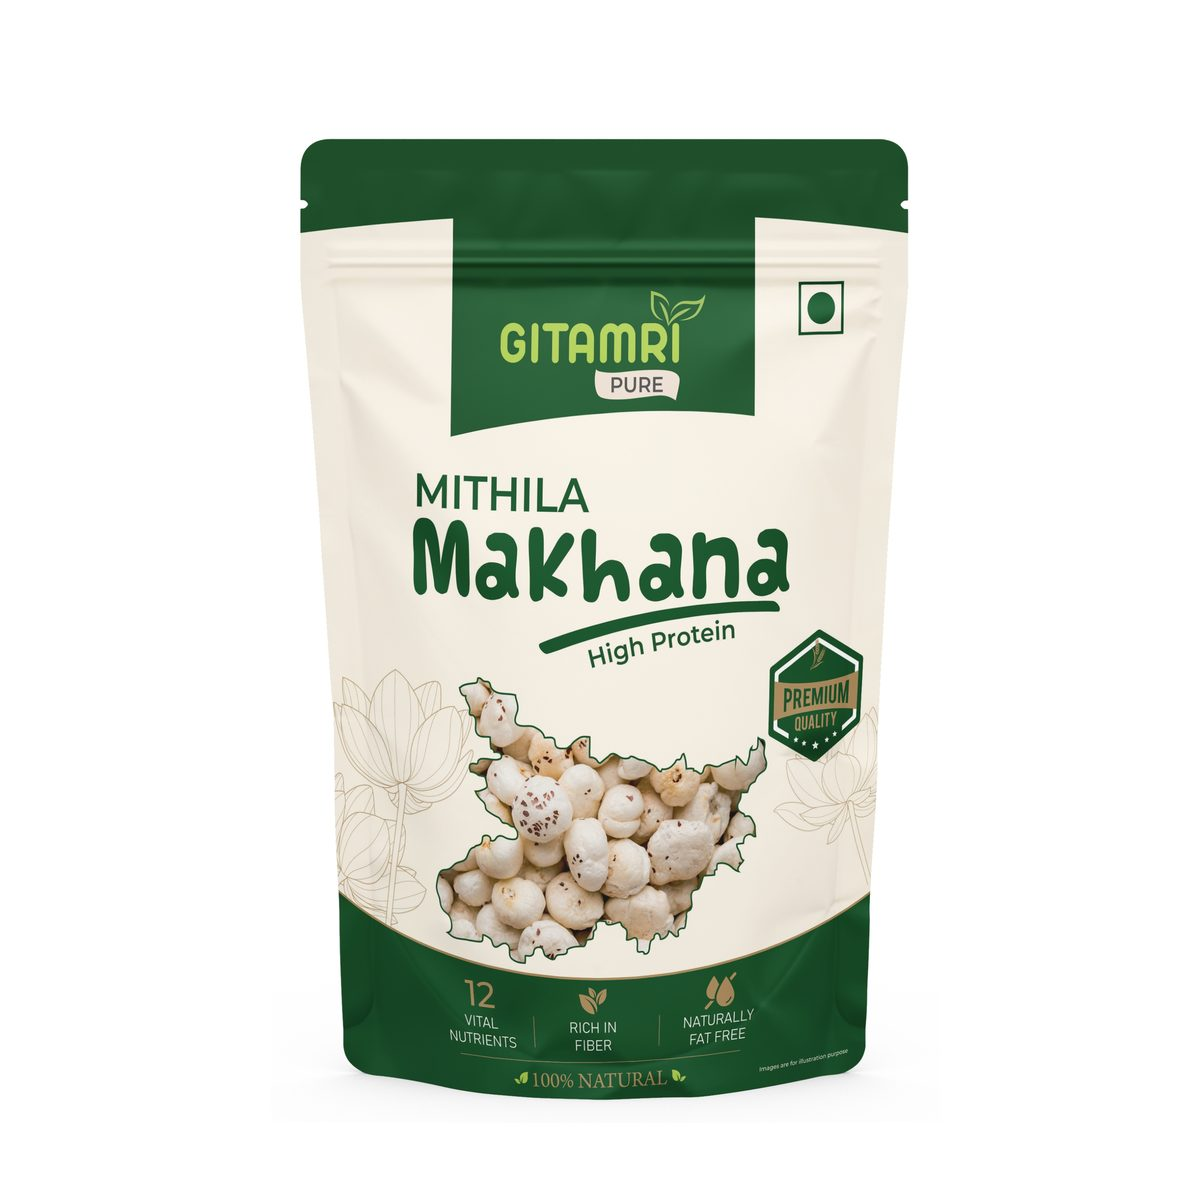
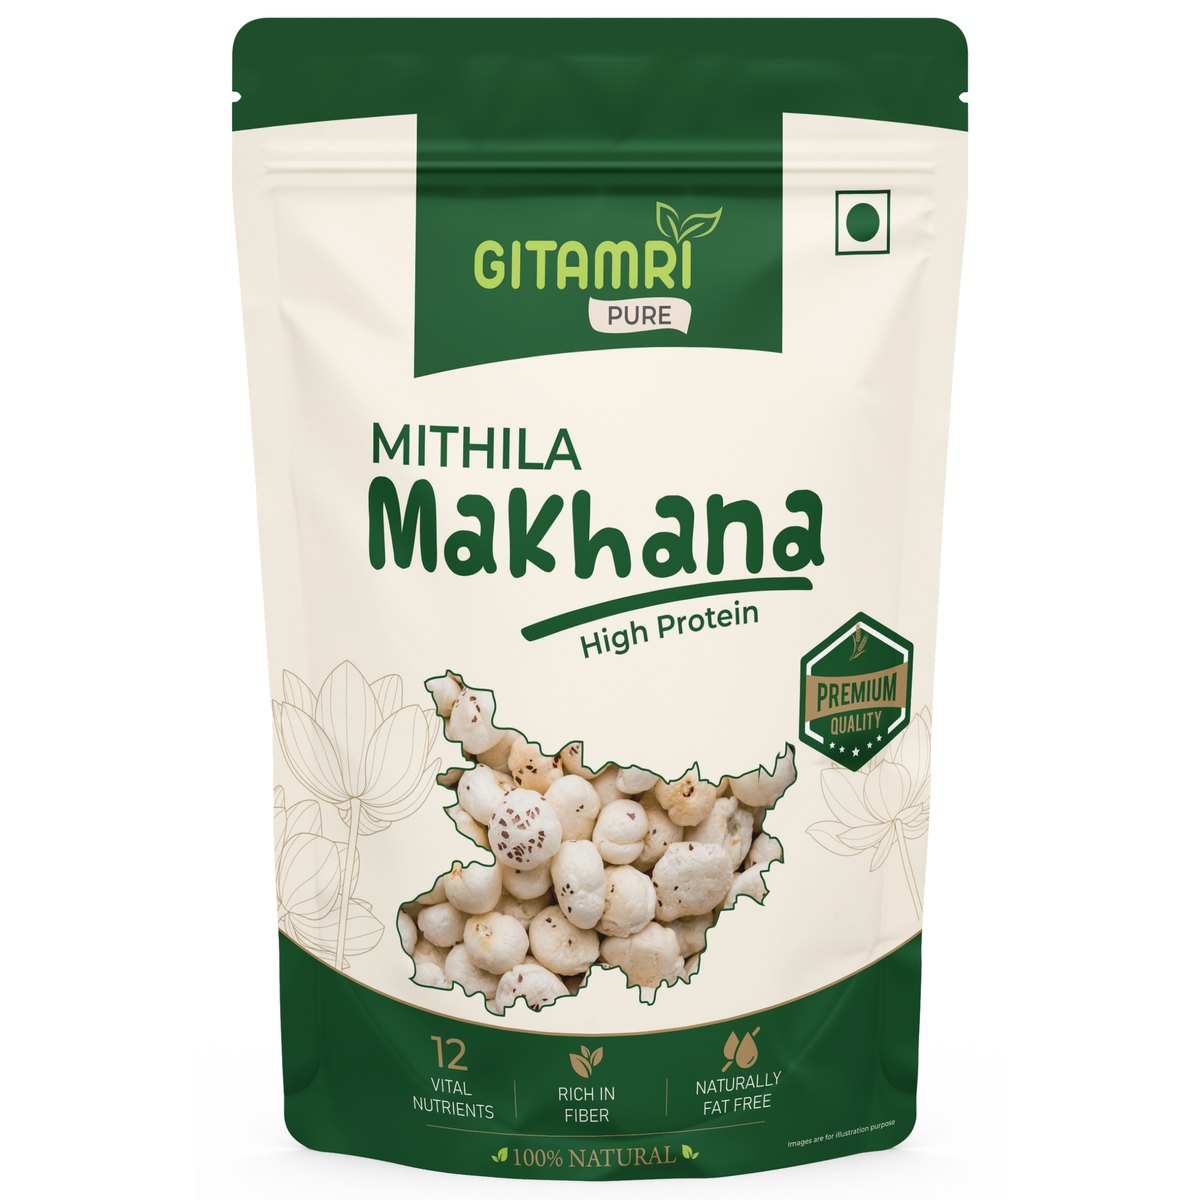
Makhana: HSN, packed weight, 10 photos, bigger pack photo, homepage New Arrival; fix mobile sideways scroll

diff --git a/components/home/NewArrivalSpotlight.tsx b/components/home/NewArrivalSpotlight.tsx
@@ -1,0 +1,66 @@
+import Image from "next/image";
+import Link from "next/link";
+import { products } from "@/data/products";
+import { formatPrice } from "@/lib/formatPrice";
+
+// Homepage spotlight for the newest launch. To feature a different product
+// later, change SPOTLIGHT_PRODUCT_ID. Renders nothing if that product is
+// missing, coming soon or out of stock — so it can never show a dead link.
+const SPOTLIGHT_PRODUCT_ID = "makhana-pure";
+
+export default function NewArrivalSpotlight() {
+  const product = products.find((p) => p.id === SPOTLIGHT_PRODUCT_ID);
+  if (!product || product.comingSoon || !product.inStock || !product.image) return null;
+
+  const variant = product.variants?.[0];
+  const price = variant?.price ?? product.price;
+  const mrp = variant?.mrp;
+  const weight = variant?.weight ?? product.weight;
+  const off = mrp && mrp > price ? Math.round(((mrp - price) / mrp) * 100) : 0;
+
+  return (
+    <section className="mx-auto max-w-7xl px-4 pt-10 sm:px-6 sm:pt-14 lg:px-8">
+      <Link
+        href={`/products/${product.slug}`}
+        className="group grid min-w-0 items-center gap-6 overflow-hidden rounded-3xl bg-[#183F35] p-4 text-white shadow-lg sm:p-8 md:grid-cols-2 md:gap-10"
+      >
+        <div className="relative mx-auto aspect-square w-full max-w-sm overflow-hidden rounded-2xl bg-white md:max-w-md">
+          <Image
+            src={product.image}
+            alt={product.name}
+            fill
+            sizes="(max-width: 768px) 90vw, 448px"
+            className="object-contain transition duration-300 group-hover:scale-105"
+          />
+        </div>
+
+        <div className="min-w-0 text-center md:text-left">
+          <span className="inline-block animate-pulse rounded-full bg-gold-400 px-3 py-1 text-xs font-bold uppercase tracking-[0.2em] text-[#183F35]">
+            ✨ New Arrival
+          </span>
+          <h2 className="mt-4 text-3xl font-bold md:text-4xl">{product.name}</h2>
+          {product.shortDescription && (
+            <p className="mt-3 text-base text-white/80 md:text-lg">{product.shortDescription}</p>
+          )}
+
+          <div className="mt-5 flex flex-wrap items-center justify-center gap-3 md:justify-start">
+            <span className="text-3xl font-bold text-gold-300">{formatPrice(price)}</span>
+            {weight && <span className="text-white/70">/ {weight}</span>}
+            {off > 0 && mrp && (
+              <>
+                <span className="text-lg text-white/50 line-through">{formatPrice(mrp)}</span>
+                <span className="rounded-full bg-red-600 px-2.5 py-0.5 text-xs font-bold text-white">
+                  {off}% OFF · Save {formatPrice(mrp - price)}
+                </span>
+              </>
+            )}
+          </div>
+
+          <span className="mt-6 inline-flex items-center gap-2 rounded-full bg-gold-400 px-7 py-3 font-semibold text-[#183F35] transition group-hover:bg-gold-300">
+            Shop Now →
+          </span>
+        </div>
+      </Link>
+    </section>
+  );
+}

diff --git a/data/products.ts b/data/products.ts
@@ -1122,10 +1122,11 @@ seoDescription:"Gitamri Pure Mithila Makhana — 100% foxnuts from the Mithila r
 whyYoullLoveIt:["Single ingredient — 100% foxnuts","No added oil, salt, sugar or preservatives","From the Mithila region of Bihar","Only 0.31g fat per 100g","Roasts crisp in just 5 minutes"],
 howToEnjoy:"Heat a pan on a low flame, add 50g of Gitamri Pure Makhana and roast till they become crispy. In the same pan, add 1 tbsp ghee, 1/4 tsp black pepper powder and salt to taste. Mix well and enjoy. Makhana also works beautifully in kheer, curries and laddoos.",
 category:"Dry Fruits & Healthy Seeds",
+hsnCode:"20081921",
 description:"Gitamri Pure Mithila Makhana is exactly what the pack says: 100% foxnuts, and nothing else. Grown in the ponds of Bihar's Mithila region, our makhana is packed with no added oil, salt, sugar, flavour or preservatives. Our purity promise is simple — one ingredient on the label, one ingredient in the pack. Roast it in a little ghee for a crunchy everyday snack, or use it in kheer, curries and laddoos.",
 shortDescription:"100% foxnuts from Mithila, Bihar — one ingredient, nothing added.",
 image:"/Makhana/makhana-1.jpg",
-gallery:["/Makhana/makhana-1.jpg","/Makhana/makhana-2.jpg","/Makhana/makhana-3.jpg","/Makhana/makhana-4.jpg","/Makhana/makhana-5.jpg","/Makhana/makhana-6.jpg","/Makhana/makhana-7.jpg"],
+gallery:["/Makhana/makhana-1.jpg","/Makhana/makhana-9.jpg","/Makhana/makhana-2.jpg","/Makhana/makhana-3.jpg","/Makhana/makhana-8.jpg","/Makhana/makhana-4.jpg","/Makhana/makhana-5.jpg","/Makhana/makhana-10.jpg","/Makhana/makhana-6.jpg","/Makhana/makhana-7.jpg"],
 price:199,
 weight:"100g",
 variants:[{weight:"100g",price:199,mrp:249}],

diff --git a/lib/delhivery.ts b/lib/delhivery.ts
@@ -44,19 +44,25 @@ function shipmentDimensionsForItems(items: { weight?: string }[]) {
  * Used for Delhivery's shipment `weight` field.
  */
 const PACKED_WEIGHT_G: Record<string, number> = {
+  "100g": 125, // Makhana Pure 100g pouch, packed
   "200g": 0,
   "220g": 0,
   "500g": 0,
   "1kg": 0,
   "6x75g": 0,
 };
-const DEFAULT_PACKED_WEIGHT_G = PACKED_WEIGHT_G["500g"];
 
 function shipmentWeightForItems(items: { weight?: string; quantity: number }[]) {
-  return items.reduce((sum, i) => {
-    const perJar = (i.weight && PACKED_WEIGHT_G[i.weight]) || DEFAULT_PACKED_WEIGHT_G;
-    return sum + perJar * i.quantity;
-  }, 0);
+  // Only send a weight when EVERY item's packed weight is known (> 0).
+  // If any item's weight is still 0 / unknown, return 0 so no weight is sent,
+  // rather than an under-reported total (e.g. makhana known, pickle jars not).
+  let total = 0;
+  for (const i of items) {
+    const perItem = i.weight ? PACKED_WEIGHT_G[i.weight] ?? 0 : 0;
+    if (!perItem) return 0;
+    total += perItem * i.quantity;
+  }
+  return total;
 }
 
 interface ShipmentInput {

diff --git a/app/page.tsx b/app/page.tsx
@@ -1,4 +1,5 @@
 import HeroBanner from "@/components/home/HeroBanner";
+import NewArrivalSpotlight from "@/components/home/NewArrivalSpotlight";
 import FeaturedProducts from "@/components/home/FeaturedProducts";
 import TrialPackSection from "@/components/home/TrialPackSection";
 import FeaturedCategories from "@/components/home/FeaturedCategories";
@@ -21,6 +22,8 @@ export default async function Home() {
       <section className="relative">
         <HeroBanner />
       </section>
+
+      <NewArrivalSpotlight />
 
       <section className="mx-auto max-w-7xl px-4 pt-16 sm:px-6 sm:pt-20 lg:px-8">
         <div className="mb-10 text-center">

diff --git a/components/products/ProductGallery.tsx b/components/products/ProductGallery.tsx
@@ -31,7 +31,7 @@ export default function ProductGallery({
 }
 
   return (
-    <div className="flex flex-col-reverse gap-3 md:flex-row">
+    <div className="flex min-w-0 flex-col-reverse gap-3 md:flex-row">
       <div className="flex gap-2 overflow-x-auto md:flex-col md:overflow-visible">
         {images.map((img, i) => (
           <button
